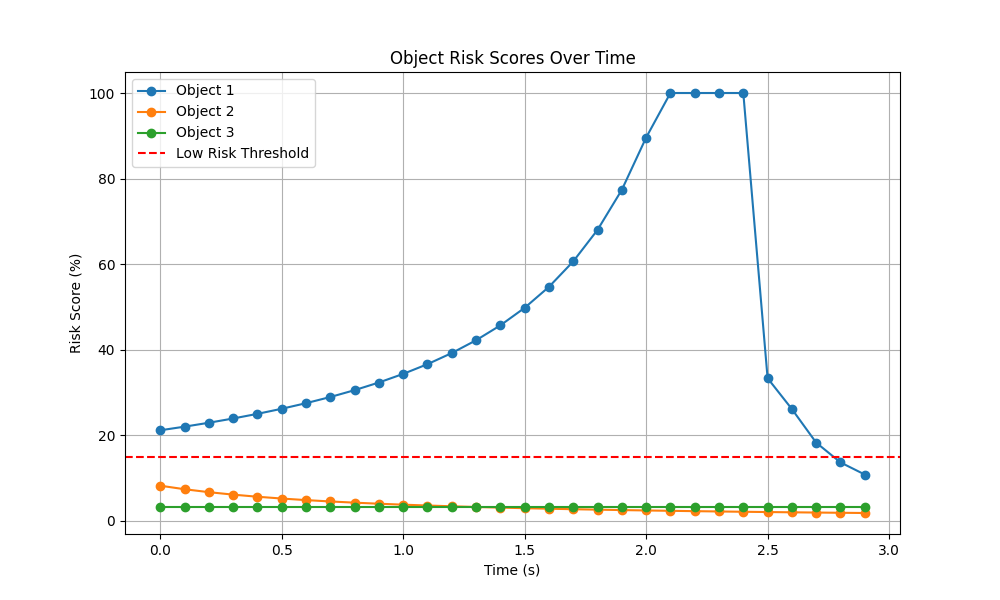
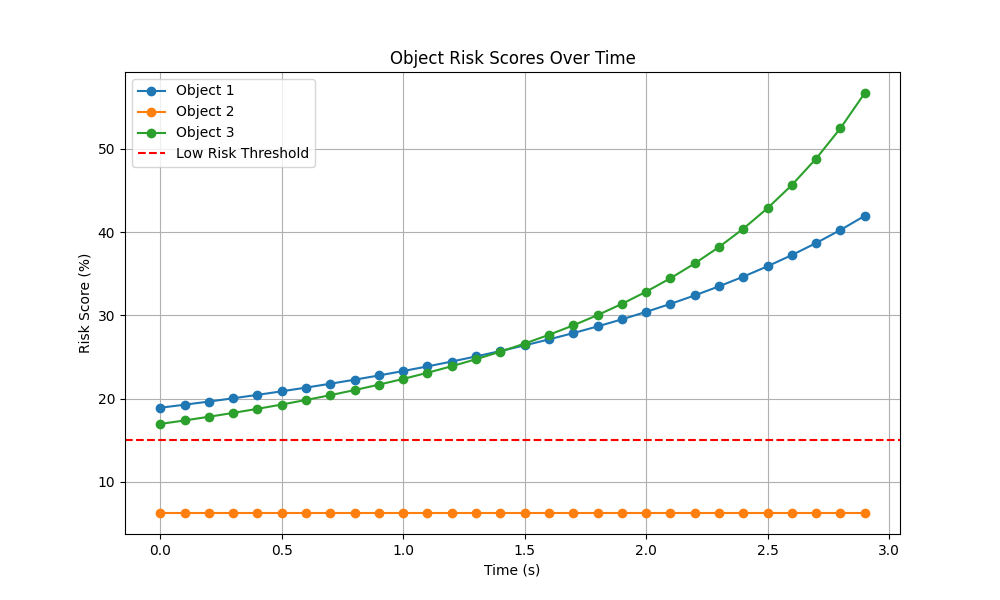
chore(data): sync risk score dummy data to 3-object imminent crash scenario and update plots

diff --git a/object_risk_score/sensor_fusion_engine.py b/object_risk_score/sensor_fusion_engine.py
@@ -4,8 +4,7 @@ import numpy as np
 import matplotlib.path as mplPath
 import matplotlib.pyplot as plt
 import trajectory_planner as tp
-import matplotlib.path as mplPath
-import matplotlib.pyplot as plt
+from risk_score_calculator import calculate_risk
 
 # ==========================================
 # SENSOR FUSION ENGINE
@@ -63,7 +62,7 @@ def parse_camera_polygons():
     Returns mock Camera Polygons (bounding boxes) for 5 generated objects in a crowded scene.
     """
     # Class 0: Car (Dead center, Range 15 -> U=640)
-    car_pts = [[600.0, 370.0], [680.0, 370.0], [680.0, 400.0], [600.0, 400.0]]
+    car_pts = [[600.0, 370.0], [680.0, 370.0], [680.0, 450.0], [600.0, 450.0]]
     
     # Class 6: Pedestrian (Azimuth 14.0 -> U=839)
     ped_pts = [[810.0, 390.0], [870.0, 390.0], [870.0, 430.0], [810.0, 430.0]]
@@ -112,11 +111,9 @@ def get_fused_objects():
     Simulates the sensor fusion pipeline for a single frame, returning the initial world state.
     """
     raw_radar_data = [
-        {'id': 1, 'azimuth': 0.0, 'range': 15.0, 'range_rate': -2.0}, # Center (Car)
-        {'id': 2, 'azimuth': 14.0, 'range': 10.3, 'range_rate': 0.0}, # Far Left (Pedestrian)
-        {'id': 3, 'azimuth': -11.7, 'range': 12.25, 'range_rate': 0.0}, # Far Right (Bicycle)
-        {'id': 4, 'azimuth': 2.8, 'range': 20.0, 'range_rate': 0.0}, # Left-Center (Pothole)
-        {'id': 5, 'azimuth': 0.0, 'range': 25.0, 'range_rate': -5.0}, # Center further up (Truck)
+        {'id': 1, 'azimuth': 0.0, 'range': 10.0, 'range_rate': -2.0}, # Very close, directly in lane (Car)
+        {'id': 2, 'azimuth': -2.8, 'range': 15.0, 'range_rate': 0.0}, # Stepping into path from left (Pedestrian)
+        {'id': 3, 'azimuth': 1.4, 'range': 20.0, 'range_rate': -5.0}, # Further ahead, braking hard (Truck)
     ]
     
     radar_blips = []
@@ -133,9 +130,12 @@ def get_fused_objects():
     world_objects = []
     for blip in fused_blips:
         if blip['class_id'] != -1:
+            # Calculate mathematical risk based on physics
+            risk_score = calculate_risk(blip['x'], blip['y'], blip['vx'], blip['vy'])
+            
             obj = tp.WorldObject(
                 obj_id=blip['obj_id'], class_id=blip['class_id'], 
-                x=blip['x'], y=blip['y'], vx=blip['vx'], vy=blip['vy'], risk_score=50
+                x=blip['x'], y=blip['y'], vx=blip['vx'], vy=blip['vy'], risk_score=risk_score
             )
             world_objects.append(obj)
             

diff --git a/object_risk_score/risk_score_calculator.py b/object_risk_score/risk_score_calculator.py
@@ -12,21 +12,20 @@ LOW_RISK_THRESHOLD = 15.0 # Risk percentage below which an object is considered 
 
 def create_dummy_data():
     """Create a dummy radar_detections.csv if the MATLAB export hasn't been run."""
-    print(f"Warning: {CSV_FILE} not found. Creating a demonstration dataset.")
+    print(f"Warning: {CSV_FILE} not found. Creating a demonstration dataset (Imminent Crash Scenario).")
     data = []
-    # Object 1: Fast approaching, high risk
-    # Object 2: Moving away, low risk, disappears early
-    # Object 3: Stationary, medium risk
+    # Object 1: Close Car (ID: 1)
+    # Object 2: Pedestrian (ID: 2)
+    # Object 3: Far Car (ID: 3)
     for t in np.arange(0, 3.0, 0.1):
-        # Obj 1: starts at 50m, moves at -20m/s
-        data.append([t, 1, 50 - 20*t, 2, -20, 0])
+        # Obj 1: starts at 10m, moves at -2.0m/s
+        data.append([t, 1, 10 + (-2.0)*t, 0.0, -2.0, 0])
         
-        # Obj 2: starts at 10m, moves at +15m/s (away). Disappears after t=1.0
-        if t <= 1.0:
-            data.append([t, 2, 10 + 15*t, -5, 15, 0])
+        # Obj 2: starts at 15m, stationary (Pedestrian stepping in)
+        data.append([t, 2, 15, -0.28, 0.0, 0])
             
-        # Obj 3: starts at 30m, stationary
-        data.append([t, 3, 30, 0, 0, 0])
+        # Obj 3: starts at 20m, moves at -5.0m/s
+        data.append([t, 3, 20 + (-5.0)*t, 0.48, -5.0, 0])
         
     df = pd.DataFrame(data, columns=['Time', 'ObjectID', 'X', 'Y', 'VX', 'VY'])
     df.to_csv(CSV_FILE, index=False)

diff --git a/object_risk_score/object_planner.py b/object_risk_score/object_planner.py
@@ -96,13 +96,11 @@ def plot_object_trajectories(objects, predicted_obs, ttc_results, ego_speed, tim
 def main():
     print("Initializing Object Planner & Threat Assessment Node...")
     
-    # Mock World State (Crowded Scene from Sensor Fusion at Frame 0)
+    # Mock World State (Syncing to the Imminent Crash Scenario from Sensor Fusion)
     objects = [
-        WorldObject(obj_id=1, class_id=0, x=15.0, y=0.0, vx=-2.0, vy=0.0, risk_score=50), # Center Car
-        WorldObject(obj_id=2, class_id=6, x=10.0, y=2.5, vx=0.0, vy=0.0, risk_score=50),  # Pedestrian
-        WorldObject(obj_id=3, class_id=5, x=12.0, y=-2.5, vx=0.0, vy=0.0, risk_score=50), # Bicycle
-        WorldObject(obj_id=4, class_id=0, x=20.0, y=1.0, vx=0.0, vy=0.0, risk_score=50),  # Pothole
-        WorldObject(obj_id=5, class_id=0, x=25.0, y=0.0, vx=-5.0, vy=0.0, risk_score=50), # Truck
+        WorldObject(obj_id=1, class_id=0, x=10.0, y=0.0, vx=-2.0, vy=0.0, risk_score=18.9), # Close Car
+        WorldObject(obj_id=2, class_id=6, x=15.0, y=-0.28, vx=0.0, vy=0.0, risk_score=6.2), # Pedestrian
+        WorldObject(obj_id=3, class_id=0, x=20.0, y=0.48, vx=-5.0, vy=0.0, risk_score=17.0) # Far Car
     ]
     
     time_horizon = 3.0

diff --git a/object_risk_score/trajectory_planner.py b/object_risk_score/trajectory_planner.py
@@ -225,13 +225,11 @@ def plot_scene(objects, best_traj, all_trajs, predicted_obs):
     print("Saved plot to trajectory_plan_output.png")
 
 def main():
-    # 1. Mock the World State (Fusion of Radar + Camera Semantic Class)
+    # 1. Mock the World State (Syncing to the Imminent Crash Scenario from Sensor Fusion)
     objects = [
-        WorldObject(obj_id=1, class_id=0, x=15.0, y=0.0, vx=-2.0, vy=0.0, risk_score=50), # Center Car
-        WorldObject(obj_id=2, class_id=6, x=10.0, y=2.5, vx=0.0, vy=0.0, risk_score=50),  # Pedestrian
-        WorldObject(obj_id=3, class_id=5, x=12.0, y=-2.5, vx=0.0, vy=0.0, risk_score=50), # Bicycle
-        WorldObject(obj_id=4, class_id=0, x=20.0, y=1.0, vx=0.0, vy=0.0, risk_score=50),  # Pothole
-        WorldObject(obj_id=5, class_id=0, x=25.0, y=0.0, vx=-5.0, vy=0.0, risk_score=50), # Truck
+        WorldObject(obj_id=1, class_id=0, x=10.0, y=0.0, vx=-2.0, vy=0.0, risk_score=18.9), # Close Car
+        WorldObject(obj_id=2, class_id=6, x=15.0, y=-0.28, vx=0.0, vy=0.0, risk_score=6.2), # Pedestrian
+        WorldObject(obj_id=3, class_id=0, x=20.0, y=0.48, vx=-5.0, vy=0.0, risk_score=17.0) # Far Car
     ]
     
     time_horizon = 3.0

diff --git a/object_risk_score/main_controller.py b/object_risk_score/main_controller.py
@@ -9,9 +9,11 @@ def main():
     print("==================================================")
     
     # 1. Initialize Sensor Fusion to get starting frame objects
-    print("\n[PERCEPTION] Polling sensors...")
+    print("\n[PERCEPTION] Polling sensors & Calculating Risk...")
     world_objects = get_fused_objects()
     print(f"  -> Extracted {len(world_objects)} fused WorldObjects.")
+    for obj in world_objects:
+        print(f"     - {obj.name.upper()} (ID: {obj.obj_id}) | Risk Score: {obj.risk_score:.1f}/100")
     
     time_horizon = 3.0
     ego_speed = 10.0 # 10 m/s

diff --git a/object_risk_score/simulink_controls.m b/object_risk_score/simulink_controls.m
@@ -1,8 +1,8 @@
 % Auto-generated by Sensor Fusion & Trajectory Engine
 
 time_vector = [0.0; 0.5; 1.0; 1.5; 2.0; 2.5; 3.0];
-steer_vector = [0.0; 0.0; 0.0; 0.0; -0.0; -0.0; -0.0]; % radians
-accel_vector = [-5.0; -5.0; -5.0; -5.0; 0.0; 0.0; 0.0]; % m/s^2
+steer_vector = [0.0; 0.3023; 0.3023; 0.0; -0.3023; -0.3023; -0.0]; % radians
+accel_vector = [0.0; 0.0; 0.0; 0.0; 0.0; 0.0; 0.0]; % m/s^2
 
 % Create timeseries objects for Simulink FromWorkspace blocks
 SteeringInput = timeseries(steer_vector, time_vector);
